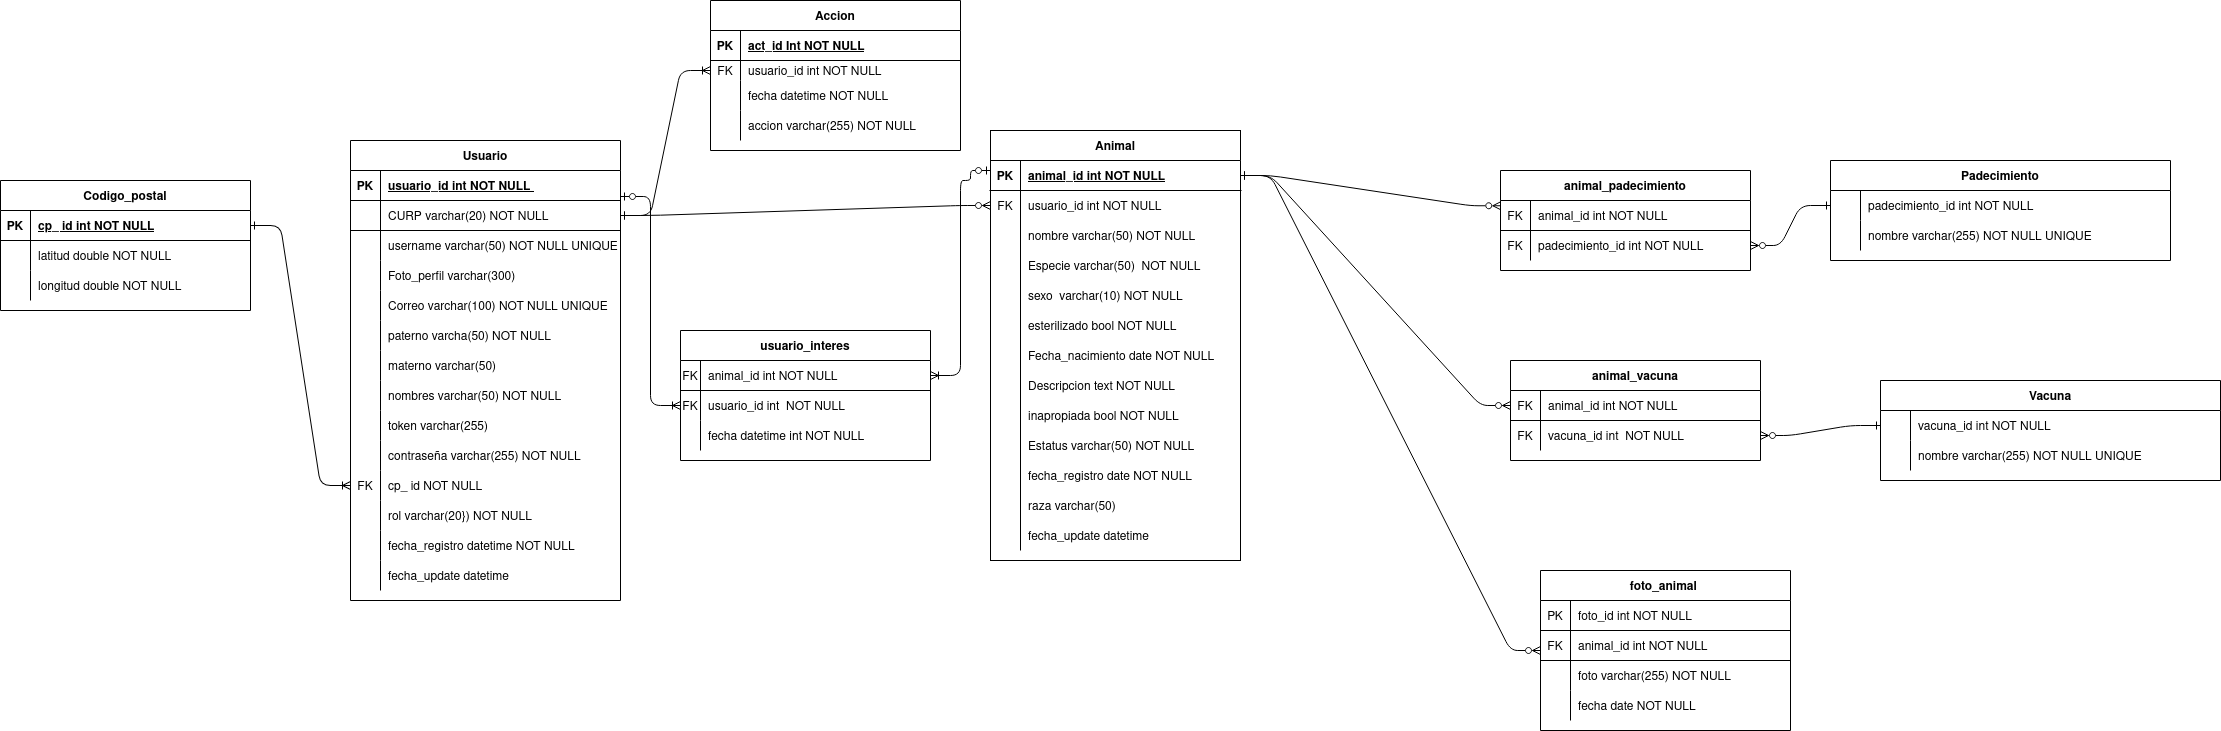
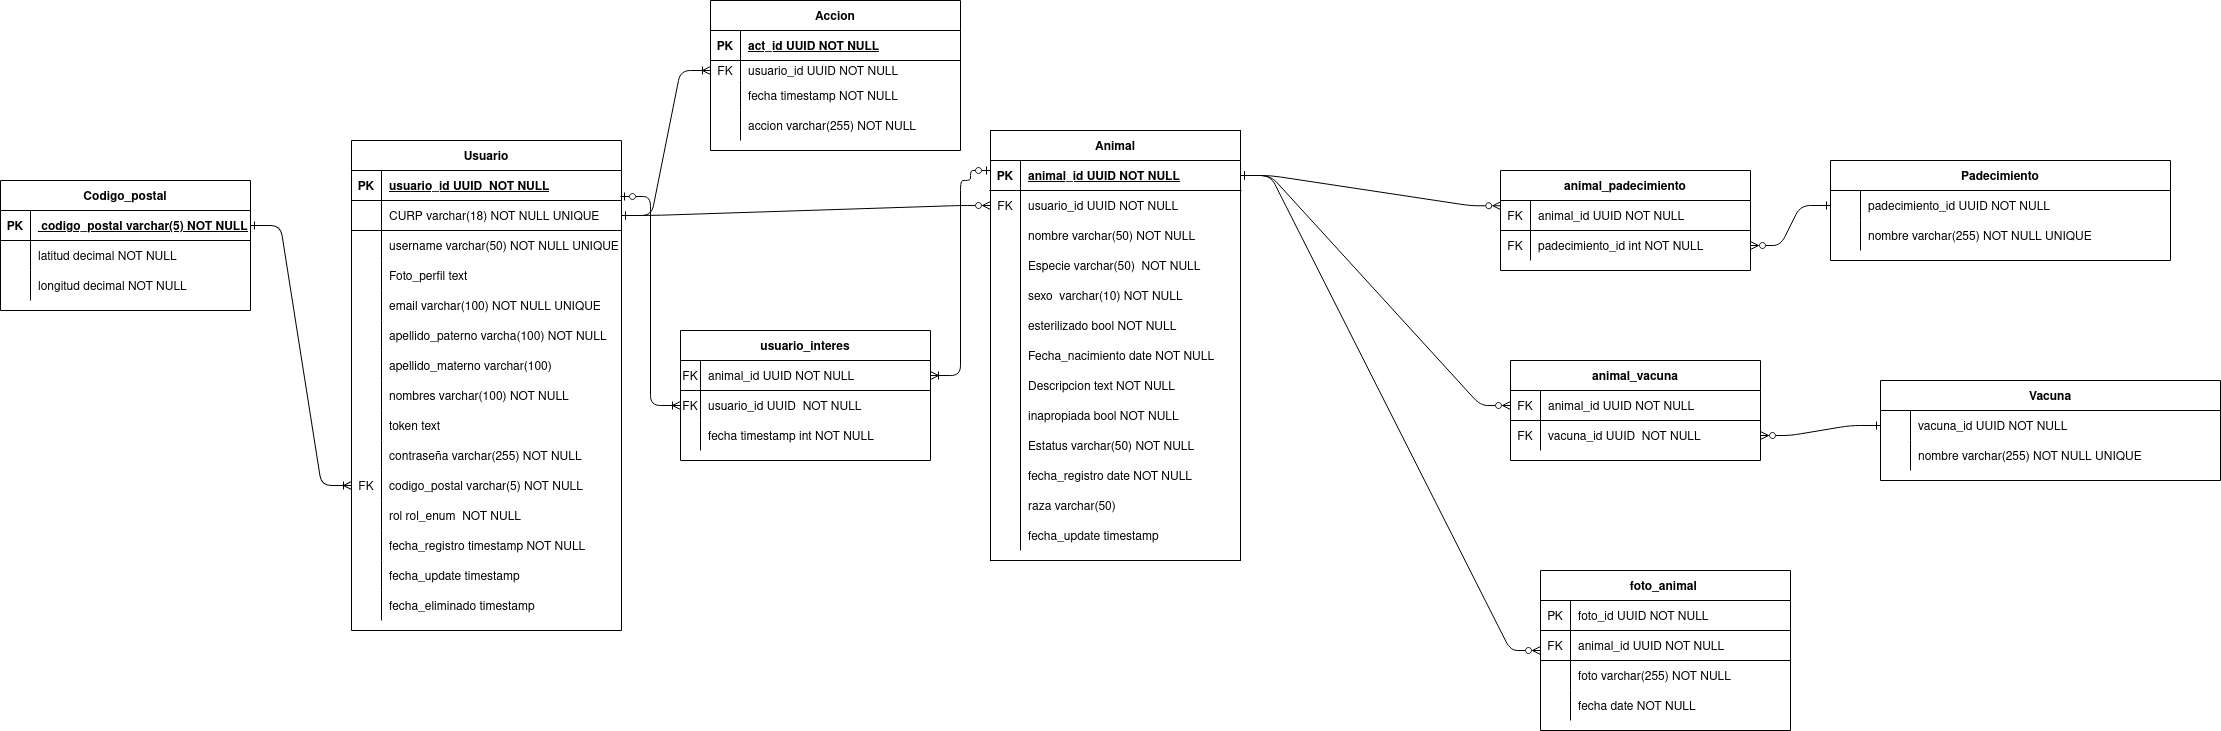
ajsjjsja# Please enter the commit message for your changes. Lines starting

diff --git a/src/main/kotlin/com/kotliners/adoptaPerrito/services/UsuarioService.kt b/src/main/kotlin/com/kotliners/adoptaPerrito/services/UsuarioService.kt
@@ -16,7 +16,6 @@ import org.springframework.stereotype.Service
 
 import java.util.UUID
 import java.time.LocalDateTime
-
 /**
  * Servicio de negocio para la gestión de usuarios en el sistema de adopción de perros.
  *
@@ -123,9 +122,9 @@ class UsuarioService {
         ensureCodigoPostalExists(usuarioEntity.codigoPostal)
         val savedEntity = usuarioRepository.save(usuarioEntity)
         logger.info("Usuario guardado en la base de datos con ID: ${savedEntity.id}")
-        val usuario = savedEntity.toUsuario()
-        usuario.password = "****"  // Ocultar contraseña antes de retornar
-        return usuario
+        val usuarioGuardado = savedEntity.toUsuario()
+        usuarioGuardado.password = "****"  // Ocultar contraseña antes de retornar
+        return usuarioGuardado
     }
 
     /**
@@ -220,7 +219,7 @@ class UsuarioService {
             logger.warn("Intento de invalidar token con ID null")
             return
         }
-        usuarioRepository.updateTokenById(userId, null)
+        usuarioRepository.updateTokenById(UUID.fromString(userId), null)
         logger.info("Token invalidado para usuario ID: $userId")
     }
 
@@ -236,7 +235,7 @@ class UsuarioService {
      */
     fun updateUsuario(userId: String, request: com.kotliners.adoptaPerrito.dto.request.UpdateUsuarioRequest): Usuario? {
         logger.info("Actualizando usuario ID: $userId")
-        val entity = usuarioRepository.findById(userId).orElse(null) ?: return null
+        val entity = usuarioRepository.findById(UUID.fromString(userId)).orElse(null) ?: return null
         entity.nombres = request.nombres
         entity.apellidoPaterno = request.apellidoPaterno
         entity.apellidoMaterno = request.apellidoMaterno

diff --git a/src/main/kotlin/com/kotliners/adoptaPerrito/entities/UsuarioEntity.kt b/src/main/kotlin/com/kotliners/adoptaPerrito/entities/UsuarioEntity.kt
@@ -6,16 +6,14 @@ import jakarta.persistence.Column
 import jakarta.persistence.Entity
 import jakarta.persistence.Enumerated
 import jakarta.persistence.EnumType
-import jakarta.persistence.GeneratedValue
-import jakarta.persistence.GenerationType
 import jakarta.persistence.Id
 import jakarta.persistence.Table
 import org.hibernate.annotations.UuidGenerator
 import java.time.LocalDateTime
+import java.util.UUID
 
 /**
  * Entidad JPA que representa la tabla "usuario" en la base de datos.
- * Los nombres de columna y variables coinciden en todas las capas.
  */
 @Entity
 @Table(name = "usuario")
@@ -25,7 +23,7 @@ data class UsuarioEntity(
     @Id
     @UuidGenerator
     @Column(name = "usuario_id", updatable = false, nullable = false)
-    val id: String? = null,
+    val id: UUID? = null,
 
     /** Clave Única de Registro de Población */
     @Column(name = "curp", unique = true, nullable = false, length = 18)
@@ -60,7 +58,7 @@ data class UsuarioEntity(
     @Column(name = "email", unique = true, nullable = false)
     var email: String = "",
 
-    /** Código postal del usuario (FK a tabla codigo_postal) */
+    /** Código postal del usuario */
     @Column(name = "codigo_postal", nullable = false, length = 5)
     var codigoPostal: String = "",
 
@@ -80,7 +78,7 @@ data class UsuarioEntity(
     @Column(name = "fecha_registro", nullable = false, updatable = false)
     val fechaRegistro: LocalDateTime = LocalDateTime.now(),
 
-    /** Fecha de eliminación lógica (soft delete) — null si el usuario está activo */
+    /** Fecha de eliminación lógica (soft delete) */
     @Column(name = "fecha_eliminado")
     var fechaEliminado: LocalDateTime? = null
 )

diff --git a/src/main/kotlin/com/kotliners/adoptaPerrito/controllers/UsuarioController.kt b/src/main/kotlin/com/kotliners/adoptaPerrito/controllers/UsuarioController.kt
@@ -242,7 +242,7 @@ class UsuarioController {
     @PutMapping
     fun updateUsuario(
         @RequestHeader("Authorization", required = false) token: String?,
-        @RequestBody updateUsuarioRequest: UpdateUsuarioRequest
+        @RequestBody  @Valid updateUsuarioRequest: UpdateUsuarioRequest
     ): ResponseEntity<Any> {
         logger.info("Solicitud de actualización recibida")
         if (token == null) return ResponseEntity.status(401).body("Token requerido")
@@ -254,7 +254,7 @@ class UsuarioController {
             return ResponseEntity.status(401).body("Token inválido")
         }
 
-        val usuarioActualizado = userService.updateUsuario(userFound.id!!, updateUsuarioRequest)
+        val usuarioActualizado = userService.updateUsuario(userFound.id ?: return ResponseEntity.status(401).body("Token inválido"), updateUsuarioRequest)
         return if (usuarioActualizado != null) {
             logger.info("Usuario actualizado: ${usuarioActualizado.id}")
             ResponseEntity.ok(usuarioActualizado)

diff --git a/src/main/kotlin/com/kotliners/adoptaPerrito/repositories/UsuarioRepository.kt b/src/main/kotlin/com/kotliners/adoptaPerrito/repositories/UsuarioRepository.kt
@@ -7,6 +7,7 @@ import org.springframework.data.jpa.repository.Query
 import org.springframework.data.repository.CrudRepository
 import org.springframework.stereotype.Repository
 import jakarta.transaction.Transactional
+import java.util.UUID
 
 /**
  * Repositorio JPA para la entidad UsuarioEntity.
@@ -23,7 +24,7 @@ import jakarta.transaction.Transactional
  * - Actualizar tokens de sesión de usuarios
  * - Proporcionar acceso tipado a operaciones de base de datos
  */
-interface UsuarioRepository:CrudRepository<UsuarioEntity,String> {
+interface UsuarioRepository:CrudRepository<UsuarioEntity,UUID> {
 
     /**
      * Busca un usuario por su token de sesión.
@@ -99,5 +100,5 @@ interface UsuarioRepository:CrudRepository<UsuarioEntity,String> {
     @Modifying
     @Transactional
     @Query("update UsuarioEntity u set u.token = :token where u.id = :id")
-    fun updateTokenById(id: String?, token: String?)
+    fun updateTokenById(id: UUID?, token: String?)
 }

diff --git a/src/main/kotlin/com/kotliners/adoptaPerrito/repositories/UsuarioEntityEF.kt b/src/main/kotlin/com/kotliners/adoptaPerrito/repositories/UsuarioEntityEF.kt
@@ -2,13 +2,14 @@ package com.kotliners.adoptaPerrito.repositories
 
 import com.kotliners.adoptaPerrito.domain.Usuario
 import com.kotliners.adoptaPerrito.entities.UsuarioEntity
+import java.util.UUID
 
 /**
  * Función de extensión que convierte un Usuario de dominio a un UsuarioEntity para persistencia.
  */
 fun Usuario.toUsuarioEntity(): UsuarioEntity {
     return UsuarioEntity(
-        id = this.id,
+        id = this.id?.let { UUID.fromString(it) },  // String → UUID
         curp = this.curp,
         username = this.username,
         rol = this.rol,

diff --git a/src/main/kotlin/com/kotliners/adoptaPerrito/domain/UsuarioEF.kt b/src/main/kotlin/com/kotliners/adoptaPerrito/domain/UsuarioEF.kt
@@ -27,7 +27,7 @@ fun CreateUsuarioRequest.toUsuario(): Usuario {
  */
 fun UsuarioEntity.toUsuario(): Usuario {
     return Usuario(
-        id = this.id,
+        id = this.id?.toString(),  
         curp = this.curp,
         username = this.username,
         rol = this.rol,
